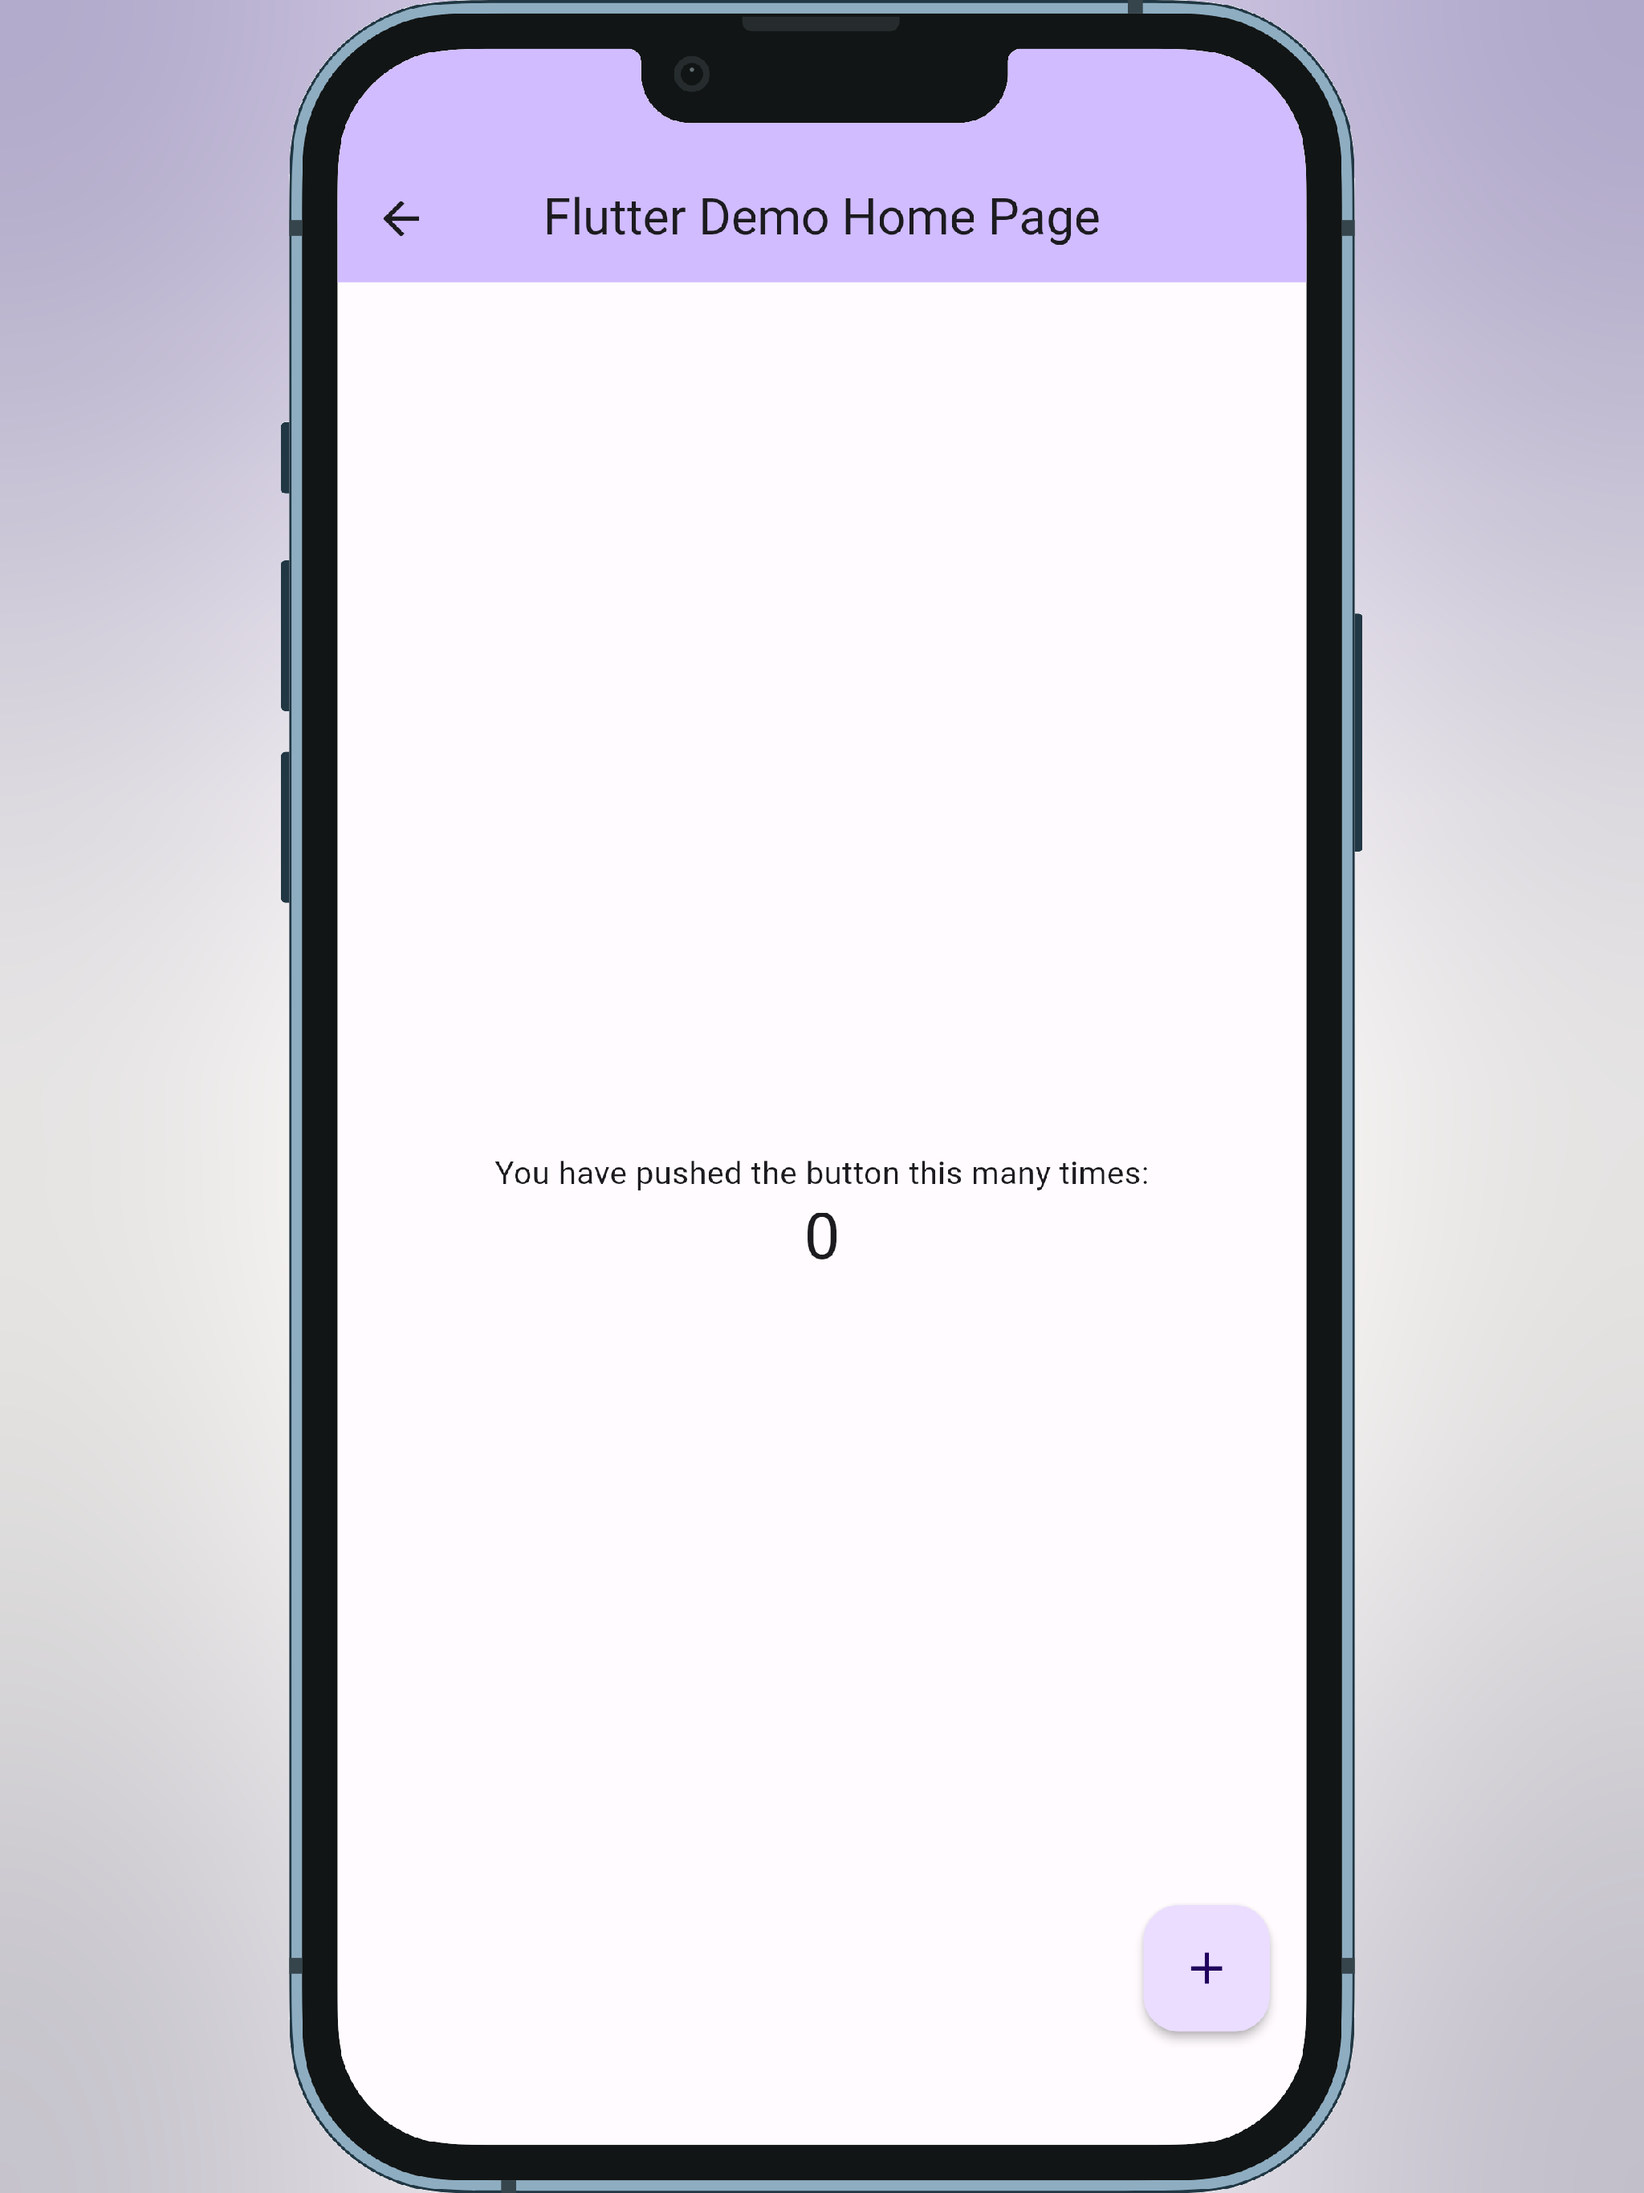
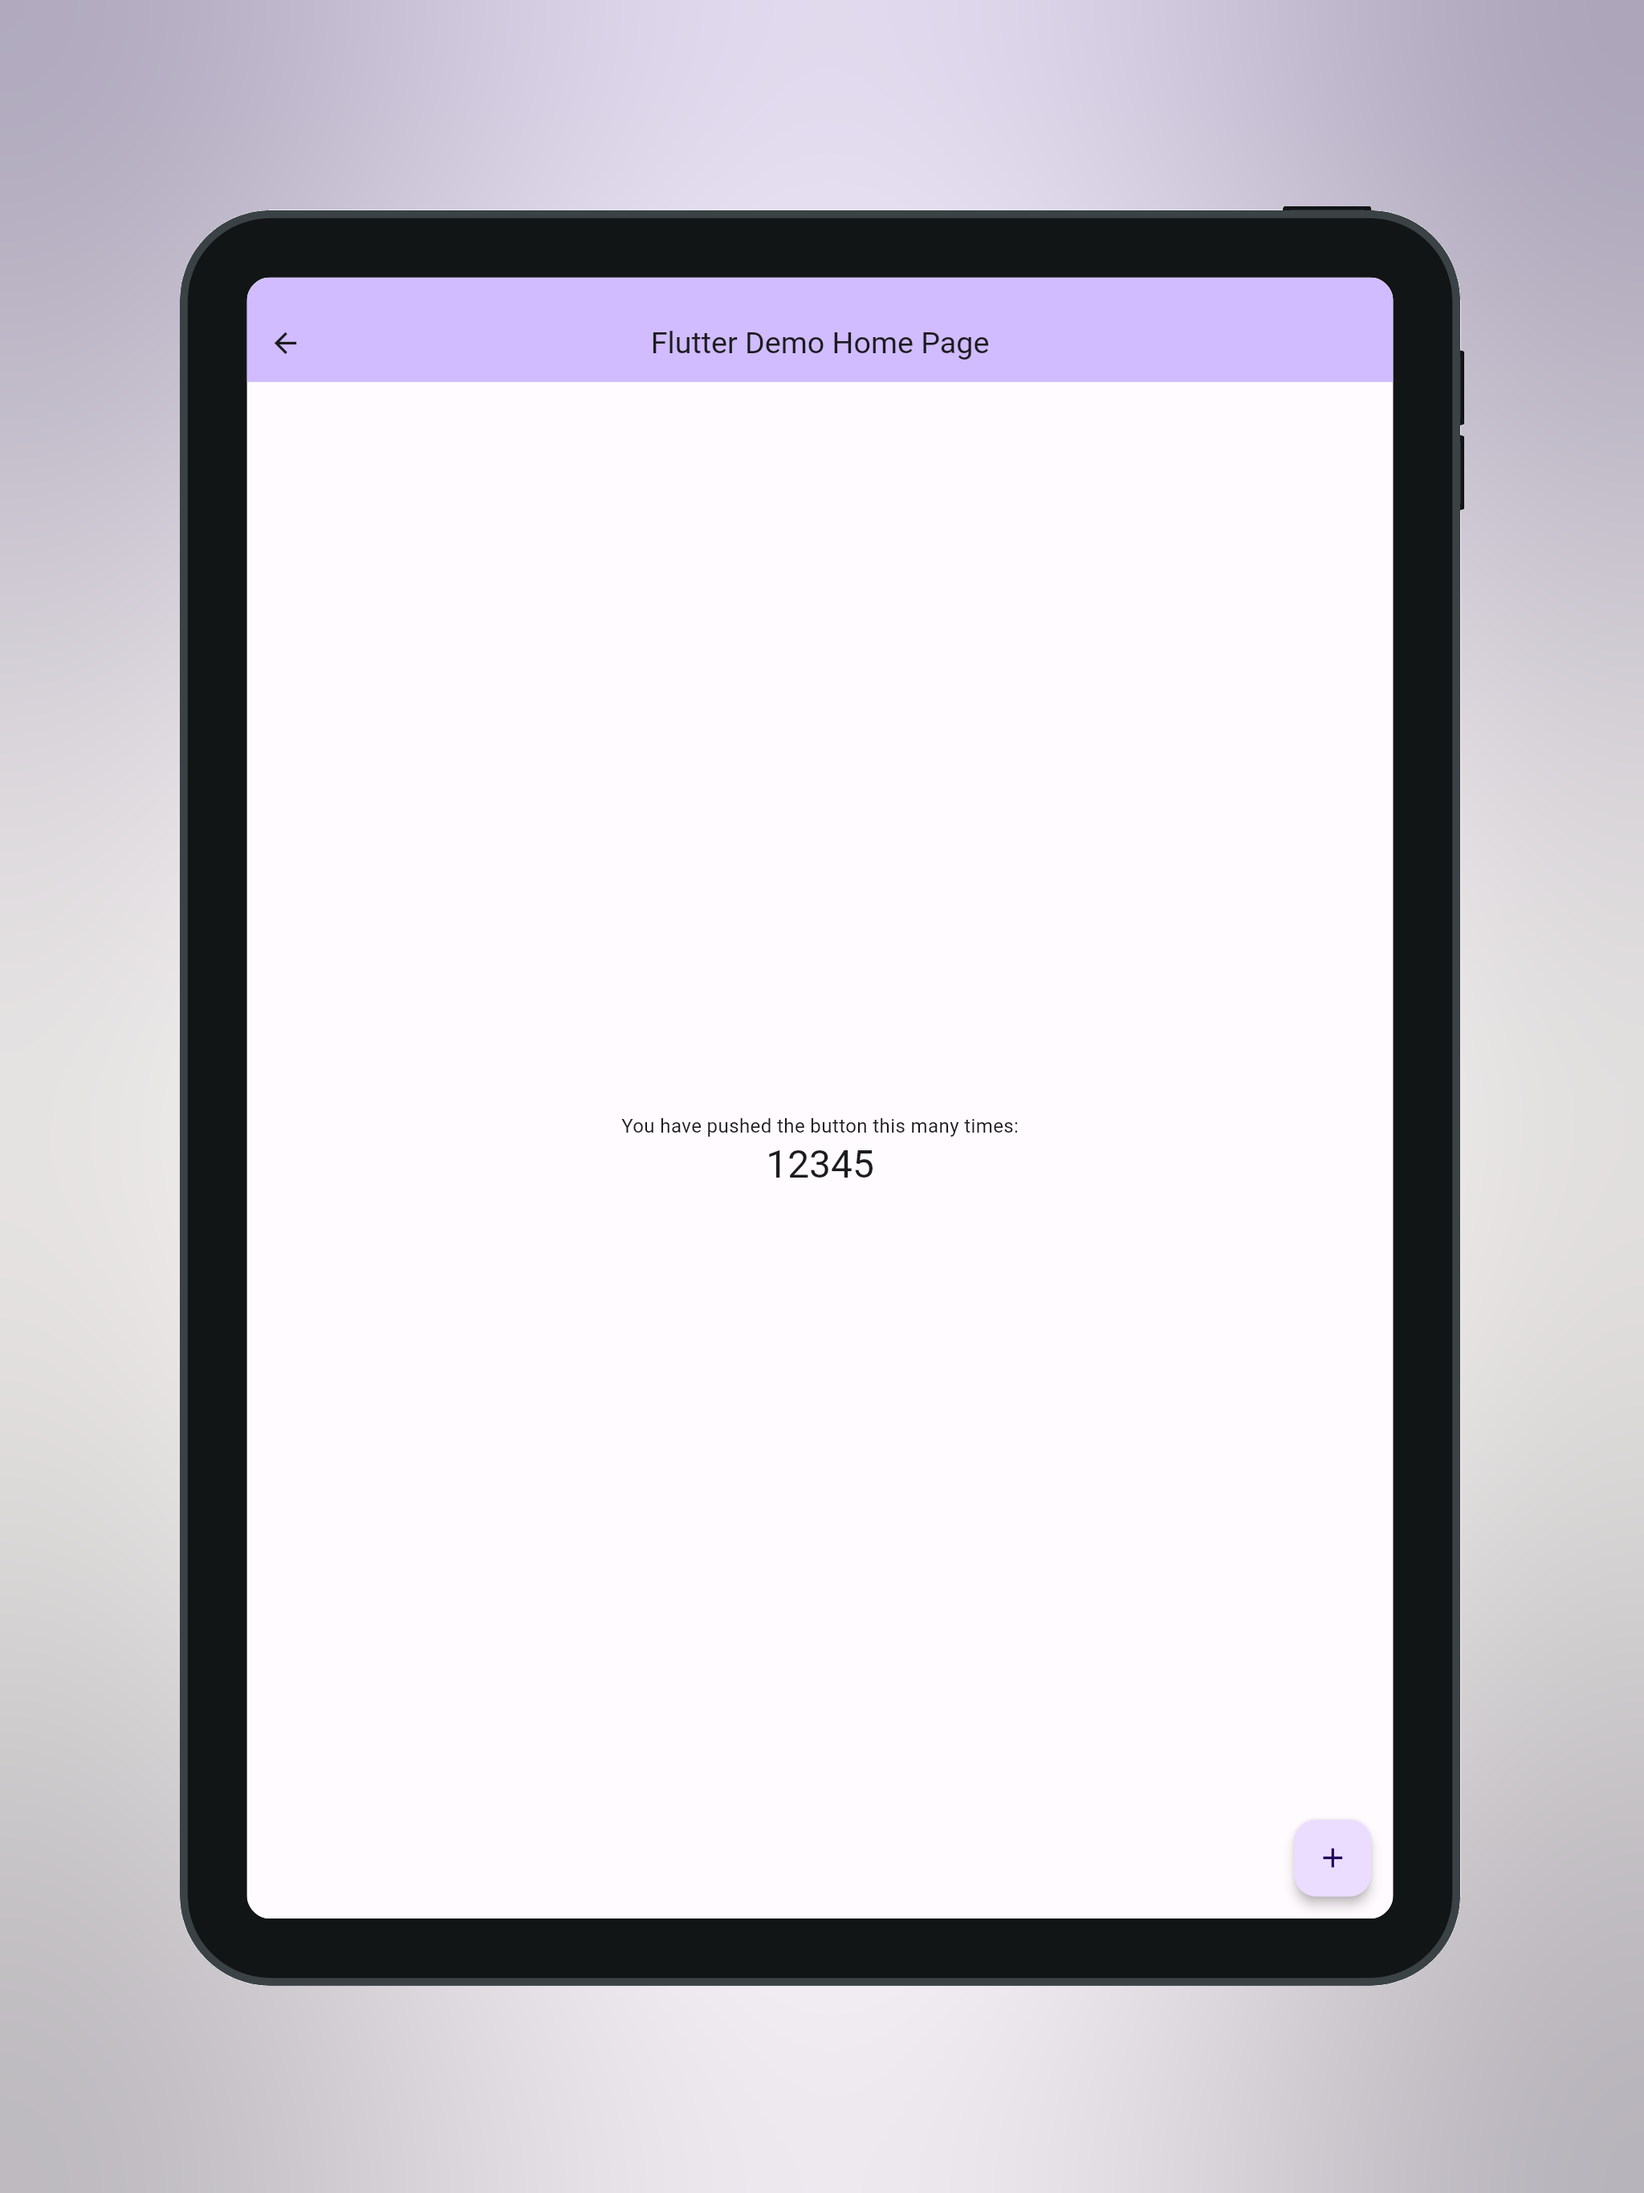
feature: screenshot background modes

diff --git a/lib/catalog.dart b/lib/catalog.dart
@@ -4,6 +4,7 @@ import 'dart:convert';
 import 'dart:typed_data';
 
 import 'package:catalog/src/builders/dummy.dart';
+import 'package:catalog/src/builders/screenshots/background.dart';
 import 'package:catalog/src/component/component_node.dart';
 import 'package:catalog/src/extensions/string_ext.dart';
 import 'package:flutter/material.dart';
@@ -22,6 +23,7 @@ export 'package:catalog/src/builders/screenshots/types/apple/i_pad_pro.dart';
 export 'package:catalog/src/builders/screenshots/types/apple/i_pad_pro_3gen.dart';
 export 'package:catalog/src/builders/screenshots/types/apple/i_phone_55.dart';
 export 'package:catalog/src/builders/screenshots/types/apple/i_phone_65.dart';
+export 'package:catalog/src/builders/screenshots/background.dart';
 export 'package:catalog/src/catalog_runner.dart';
 export 'package:catalog/src/component/component_node.dart';
 export 'package:catalog/src/constants.dart';
@@ -97,7 +99,7 @@ class Catalog {
         path,
       );
       var content =
-          String.fromCharCodes(await process(data.buffer.asUint8List()));
+      String.fromCharCodes(await process(data.buffer.asUint8List()));
       final jsonResult = jsonDecode(content);
       return ComponentNode().fromJson(jsonResult);
     } catch (e) {
@@ -119,6 +121,7 @@ class Catalog {
         for (final ss in dummy.screenshot.screenshots) {
           ss.setLocale(locale);
           await _processScreenshot(
+            mode: dummy.screenshot.background.toStringName(),
             outputFolder: outputFolder,
             fileName: ss.fileName,
             callback: callback,
@@ -133,6 +136,7 @@ class Catalog {
       if (dummy.screenshot.screenshots.isNotEmpty) {
         for (final ss in dummy.screenshot.screenshots) {
           await _processScreenshot(
+            mode: dummy.screenshot.background.toStringName(),
             outputFolder: outputFolder,
             fileName: ss.fileName,
             callback: callback,
@@ -142,8 +146,11 @@ class Catalog {
         }
       } else {
         await _processScreenshot(
+          mode: dummy.screenshot.background.toStringName(),
           outputFolder: outputFolder,
-          fileName: '${DateTime.now().millisecondsSinceEpoch}.png',
+          fileName: '${DateTime
+              .now()
+              .millisecondsSinceEpoch}.png',
           callback: callback,
           height: 0.0,
           width: 0.0,
@@ -153,6 +160,7 @@ class Catalog {
   }
 
   Future<void> _processScreenshot({
+    required String mode,
     required String outputFolder,
     required String fileName,
     required double height,
@@ -163,6 +171,7 @@ class Catalog {
     final response = await http.post(
       Uri.parse('http://127.0.0.1:12345'),
       body: jsonEncode({
+        'mode': mode,
         'outputFolder': outputFolder.addFinalSlash().addCurrentFolderDot(),
         'fileName': fileName,
         'height': height,

diff --git a/example/lib/widgets/preview/dummy/main_screen.dummy.dart b/example/lib/widgets/preview/dummy/main_screen.dummy.dart
@@ -8,21 +8,24 @@ import 'dart:ui';
 import 'package:catalog/catalog.dart';
 
 class MainScreenDummy extends PreviewDummy {
+  final baseDummy = Dummy(
+    parameters: {
+      'title': 'Flutter Demo Home Page',
+      'infoText': 'You have pushed the button this many times:',
+      'incrementCounter': () {
+        // nothing to do here
+      },
+      'counter': 12345,
+    },
+  );
+
   @override
   List<Dummy> get dummies => [
-        Dummy(
+        baseDummy.copyWith(
+          description: 'iPhone 13 Max main screen',
           device: Device(
             deviceInfo: Devices.ios.iPhone13ProMax,
           ),
-          parameters: {
-            'title': 'Flutter Demo Home Page',
-            'infoText': 'You have pushed the button this many times:',
-            'incrementCounter': () {
-              // nothing to do here
-            },
-            'counter': 0,
-          },
-          description: 'iPhone 13 Max main screen',
           screenshot: Screenshot(
             outputFolder: (Locale? locale) async {
               return 'ios/fastlane/screenshots/${locale?.toLanguageCode() ?? 'en-US'}';
@@ -40,6 +43,25 @@ class MainScreenDummy extends PreviewDummy {
               IPhone65(
                 index: 1,
               ),
+            ],
+          ),
+        ),
+        baseDummy.copyWith(
+          description: 'iPad Pro 11 inch Gen 4 main screen',
+          device: Device(
+            deviceInfo: Devices.ios.iPadPro11Inches,
+          ),
+          screenshot: Screenshot(
+            outputFolder: (Locale? locale) async {
+              return 'ios/fastlane/screenshots/${locale?.toLanguageCode() ?? 'en-US'}';
+            },
+            locales: [
+              const Locale('es', 'ES'),
+              const Locale('en', 'US'),
+              const Locale('en', 'GB'),
+              const Locale('fr', 'FR'),
+            ],
+            screenshots: [
               IPadPro(
                 index: 1,
               ),
@@ -49,19 +71,11 @@ class MainScreenDummy extends PreviewDummy {
             ],
           ),
         ),
-        Dummy(
+        baseDummy.copyWith(
+          description: 'Samsung Galaxy S20 main screen',
           device: Device(
             deviceInfo: Devices.android.samsungGalaxyS20,
           ),
-          parameters: {
-            'title': 'Flutter Demo Home Page',
-            'infoText': 'You have pushed the button this many times:',
-            'incrementCounter': () {
-              // nothing to do here
-            },
-            'counter': 120,
-          },
-          description: 'Samsung Galaxy S20 main screen',
         ),
       ];
 }

diff --git a/lib/src/builders/screenshots/screenshot.dart b/lib/src/builders/screenshots/screenshot.dart
@@ -2,11 +2,7 @@ import 'dart:ui';
 
 import 'package:catalog/src/builders/screenshots/types/base/base_screenshot.dart';
 
-/// - IPAD_PRO_3GEN_129 -> 2048 x 2732
-/// - IPAD_PRO_129 -> 2048 x 2732
-/// - IPHONE_55 -> 1242 x 2208
-/// - IPHONE_65 -> 1284 x 2778
-///
+import 'background.dart';
 
 class Screenshot {
   final List<BaseScreenshot> screenshots;
@@ -15,9 +11,12 @@ class Screenshot {
 
   final Future<String> Function(Locale? locale)? outputFolder;
 
+  final Background background;
+
   const Screenshot({
     this.screenshots = const [],
     this.locales = const [],
     this.outputFolder,
+    this.background = Background.blurHash,
   });
 }

diff --git a/lib/src/builders/dummy.dart b/lib/src/builders/dummy.dart
@@ -25,4 +25,19 @@ class Dummy {
     this.screenshot = const Screenshot(),
     this.listParameters = const [],
   });
+
+  Dummy copyWith({
+    String? description,
+    Map<String, dynamic>? parameters,
+    Device? device,
+    Screenshot? screenshot,
+    List<dynamic>? listParameters,
+  }) =>
+      Dummy(
+        description: description ?? this.description,
+        parameters: parameters ?? this.parameters,
+        device: device ?? this.device,
+        screenshot: screenshot ?? this.screenshot,
+        listParameters: listParameters ?? this.listParameters,
+      );
 }

diff --git a/bin/utils/communicator/service_worker_impl.dart b/bin/utils/communicator/service_worker_impl.dart
@@ -76,8 +76,7 @@ class ServiceWorkerImpl extends ServiceWorker {
 
     Image? baseImage;
 
-    // if (mode == 'blurhash') {
-    if (true) {
+    if (mode == 'blurHash') {
       baseImage = createBlurHashImage(width, height, screenshotImage);
     } else {
       baseImage = createBlankImage(width, height);

diff --git a/lib/src/builders/screenshots/background.dart b/lib/src/builders/screenshots/background.dart
@@ -1,0 +1,13 @@
+enum Background {
+  blank,
+  blurHash,
+}
+
+extension BackgroundExt on Background {
+  String toStringName() {
+    if (this == Background.blurHash) {
+      return 'blurHash';
+    }
+    return 'blank';
+  }
+}
